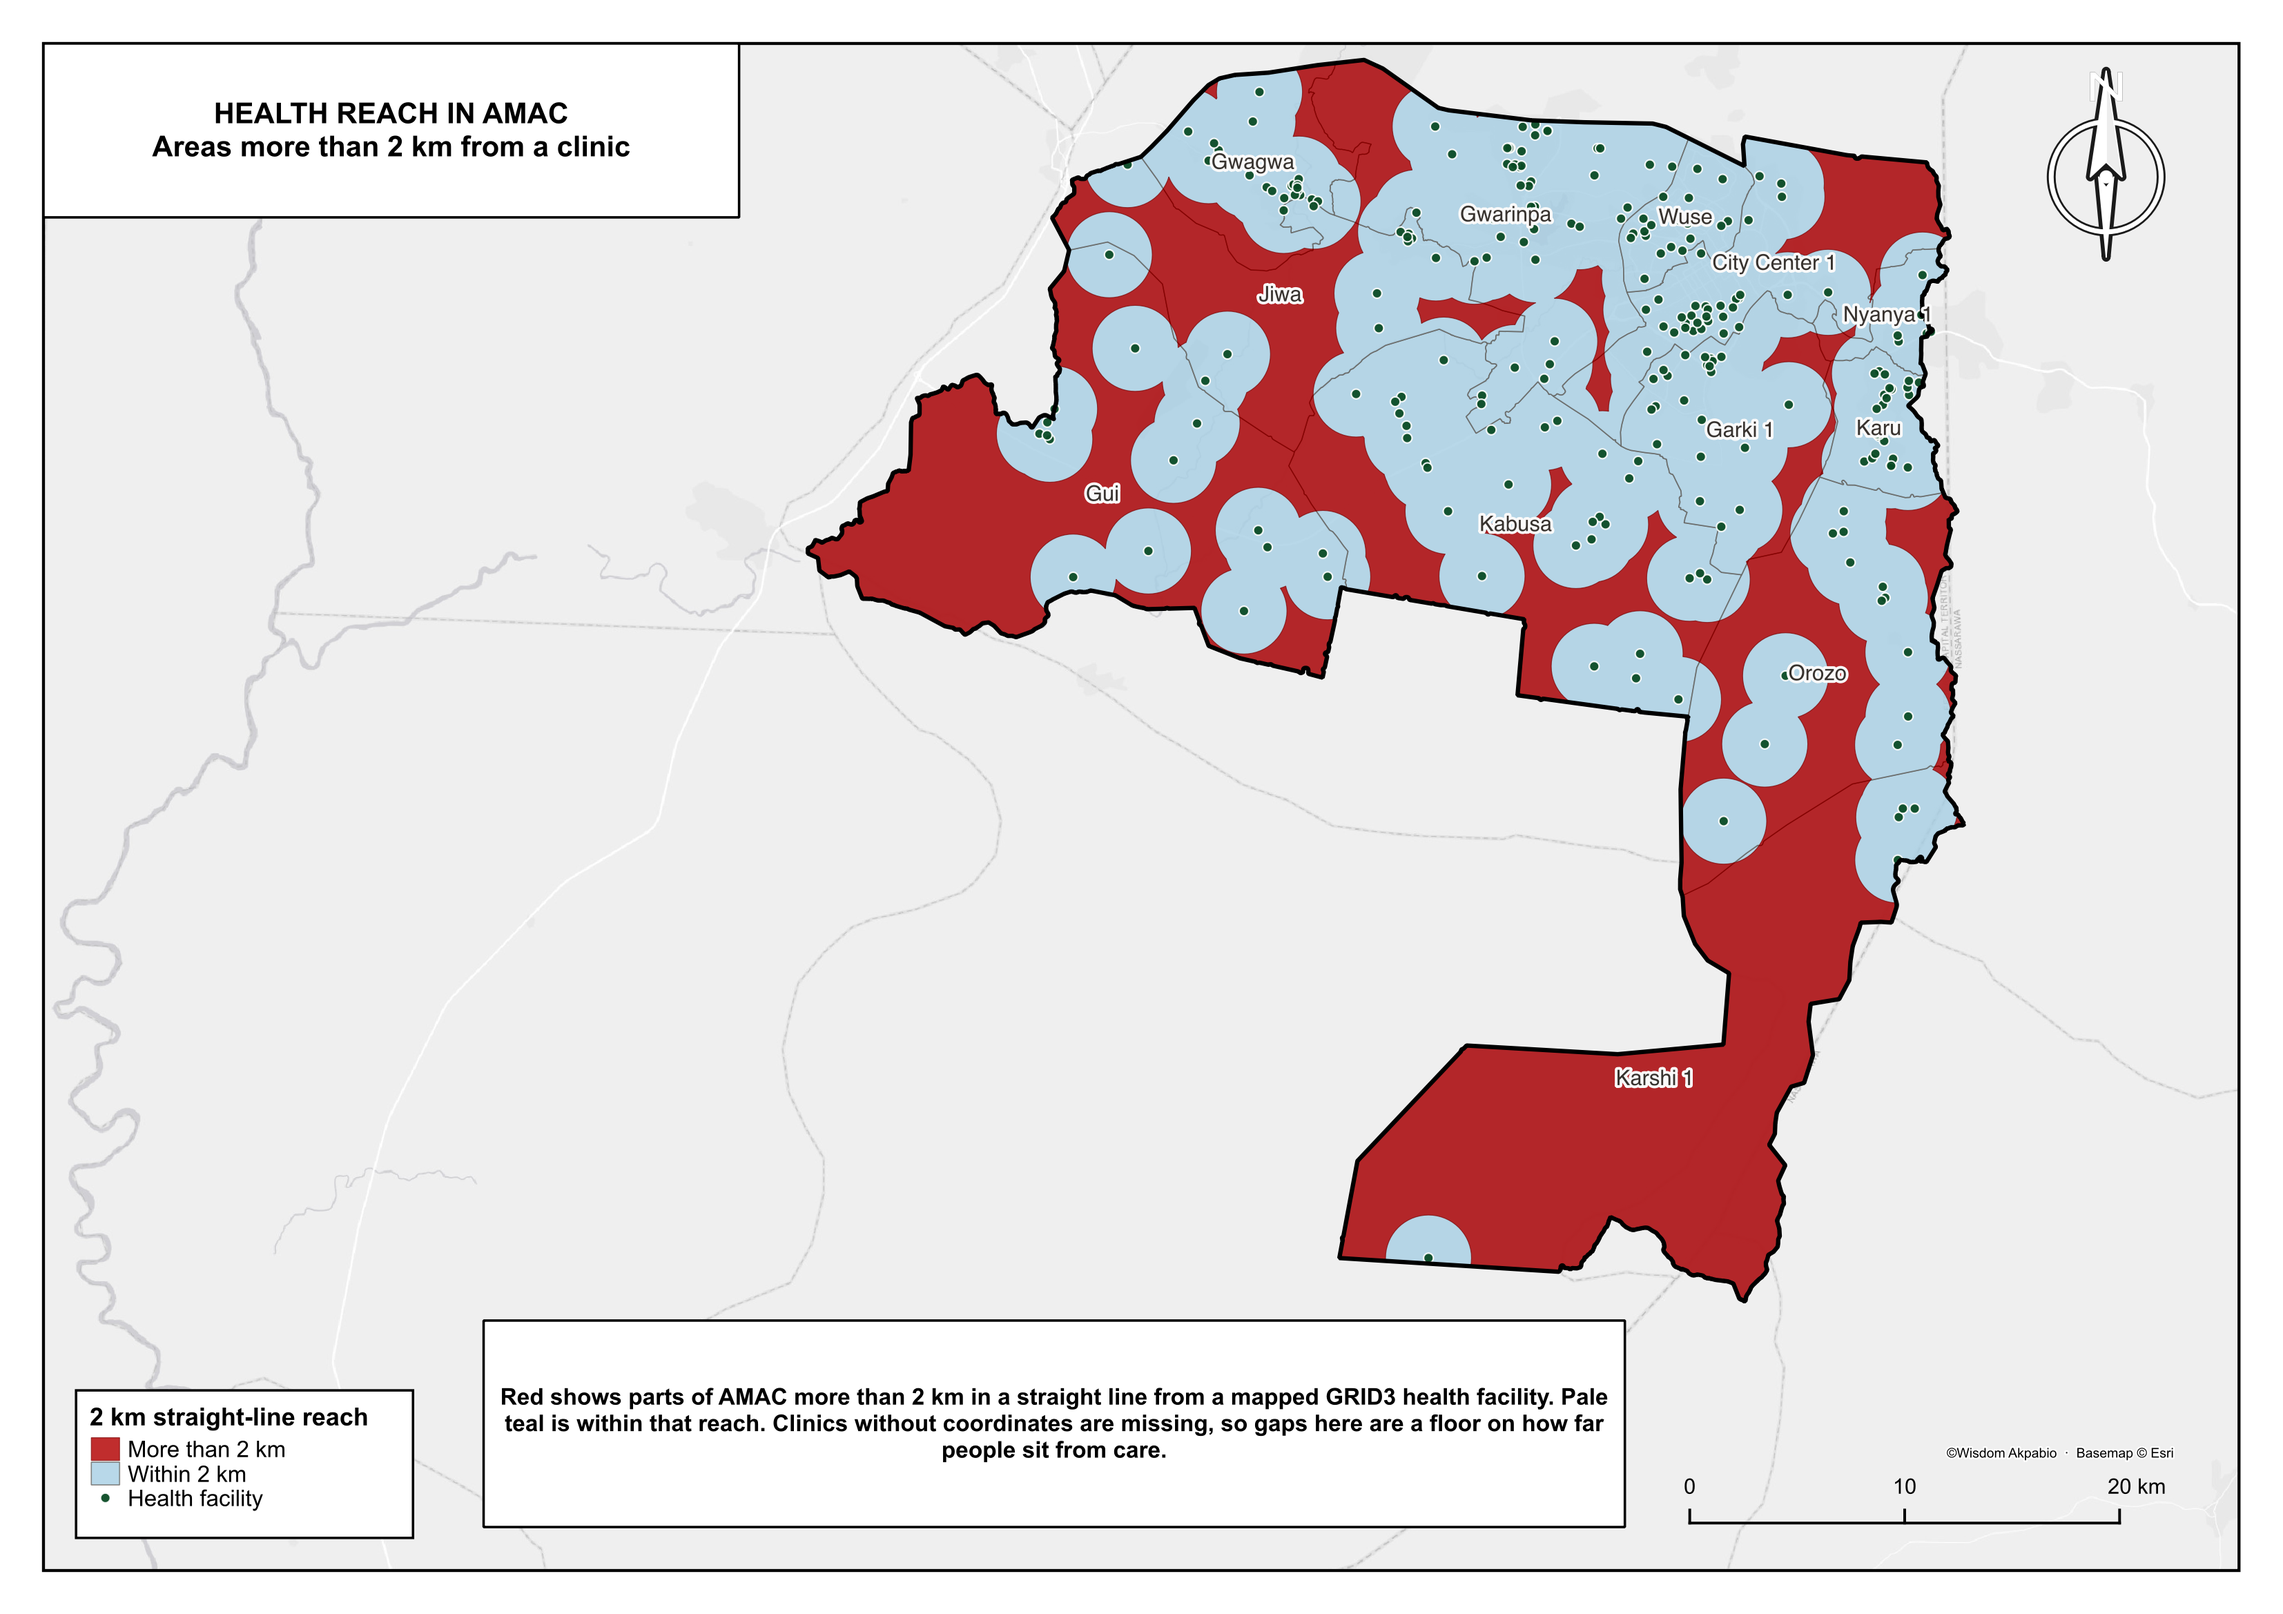
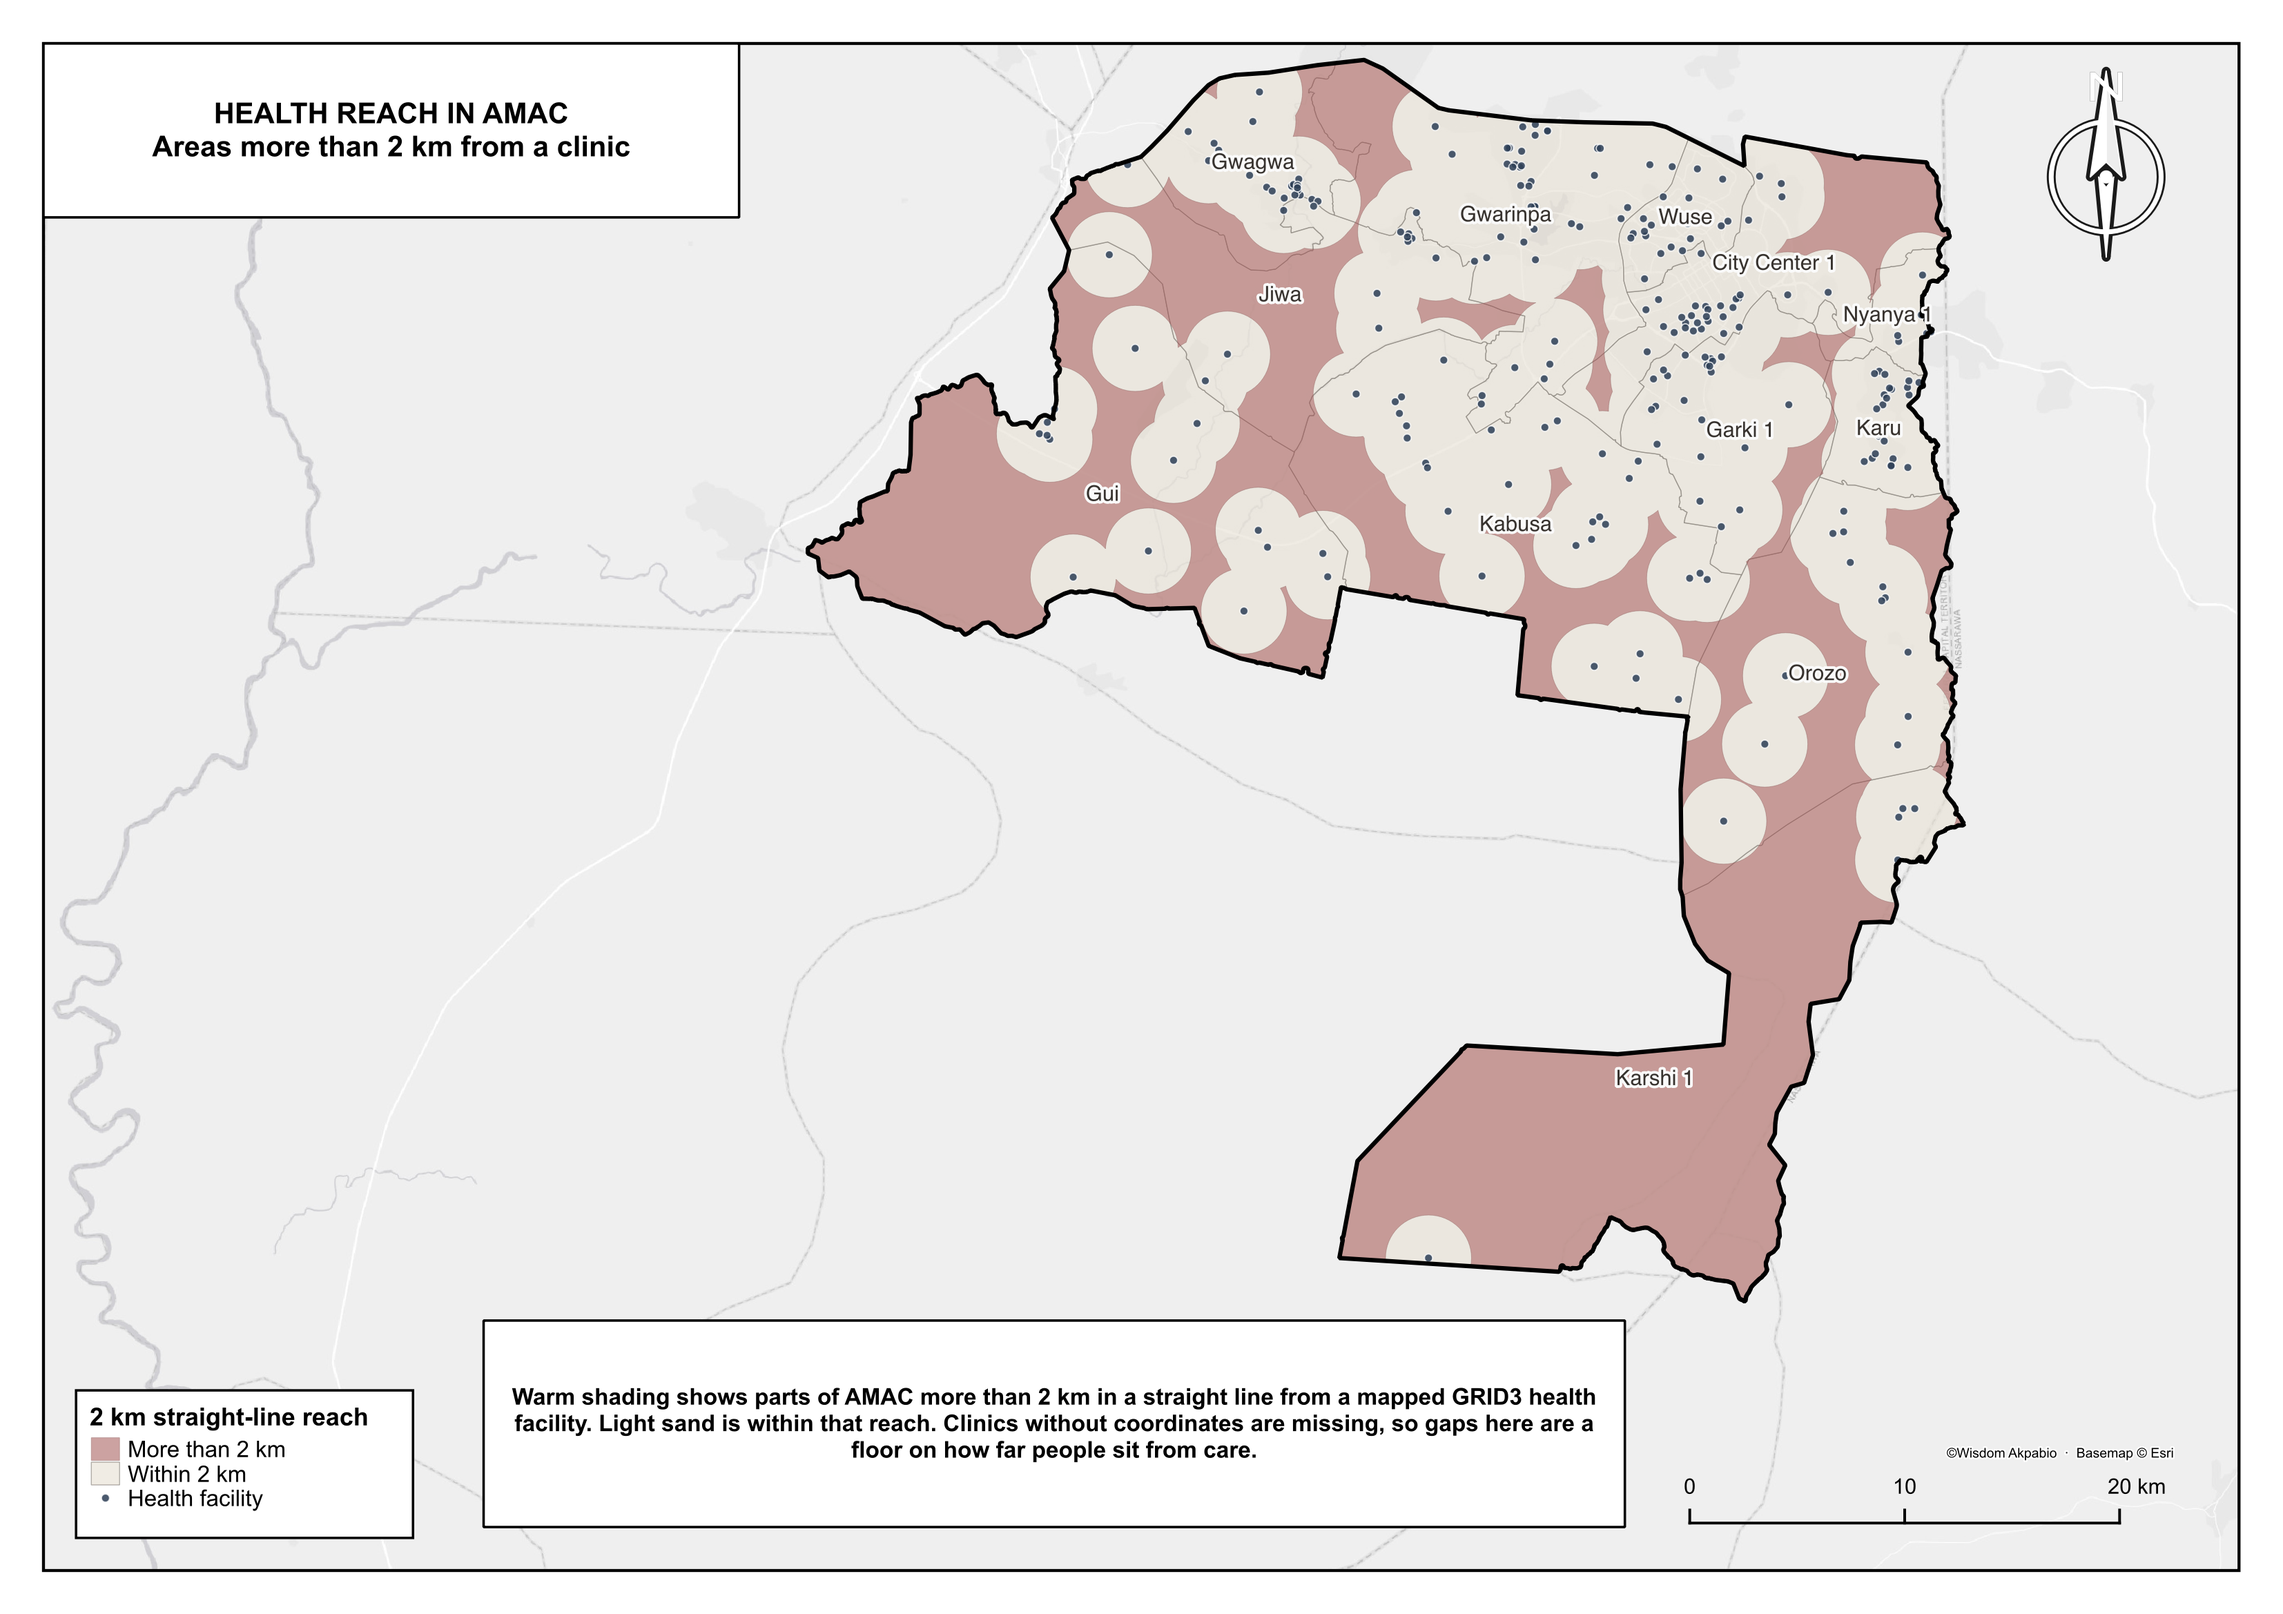
Week 11: quieter sand and dusty-rose symbology on reach plate

Changed region(s): [[0.3426, 0.0312, 0.8721, 0.8118], [0.218, 0.843, 0.7164, 0.9055], [0.0311, 0.8743, 0.0623, 0.9367]]

diff --git a/scripts/build_week11_reach_plate.py b/scripts/build_week11_reach_plate.py
@@ -76,8 +76,8 @@ TITLE = "HEALTH REACH IN AMAC"
 SUBTITLE = "Areas more than 2 km from a clinic"
 LEGEND_TITLE = "2 km straight-line reach"
 CAPTION = (
-    "Red shows parts of AMAC more than 2 km in a straight line from a mapped GRID3 health facility. "
-    "Pale teal is within that reach. "
+    "Warm shading shows parts of AMAC more than 2 km in a straight line from a mapped GRID3 health facility. "
+    "Light sand is within that reach. "
     "Clinics without coordinates are missing, so gaps here are a floor on how far people sit from care."
 )
 PINNED = ("Kabusa", "Gwarinpa", "Garki 1", "Wuse", "Karu", "Nyanya 1", "City Center 1")
@@ -298,13 +298,14 @@ def main() -> Path:
         if not lyr.isValid():
             raise RuntimeError(f"layer failed to load: {lyr.name()}")
 
+    # Quiet sequential pair: sand for reach, dusty rose for gaps. No primary red/green fight.
     wards.setRenderer(
         QgsSingleSymbolRenderer(
             QgsFillSymbol.createSimple(
                 {
-                    "color": "166,206,227,204",
-                    "outline_color": "90,84,78,165",
-                    "outline_width": "0.22",
+                    "color": "232,226,214,170",
+                    "outline_color": "120,114,108,140",
+                    "outline_width": "0.18",
                     "outline_width_unit": "MM",
                 }
             )
@@ -314,9 +315,9 @@ def main() -> Path:
         QgsSingleSymbolRenderer(
             QgsFillSymbol.createSimple(
                 {
-                    "color": "179,0,0,210",
-                    "outline_color": "120,0,0,180",
-                    "outline_width": "0.15",
+                    "color": "180,120,118,175",
+                    "outline_color": "140,95,93,120",
+                    "outline_width": "0.12",
                     "outline_width_unit": "MM",
                 }
             )
@@ -327,10 +328,10 @@ def main() -> Path:
             QgsMarkerSymbol.createSimple(
                 {
                     "name": "circle",
-                    "color": "9,73,35,240",
-                    "outline_color": "255,255,255,230",
-                    "outline_width": "0.28",
-                    "size": "1.8",
+                    "color": "46,64,87,220",
+                    "outline_color": "255,255,255,200",
+                    "outline_width": "0.22",
+                    "size": "1.5",
                     "size_unit": "MM",
                 }
             )
